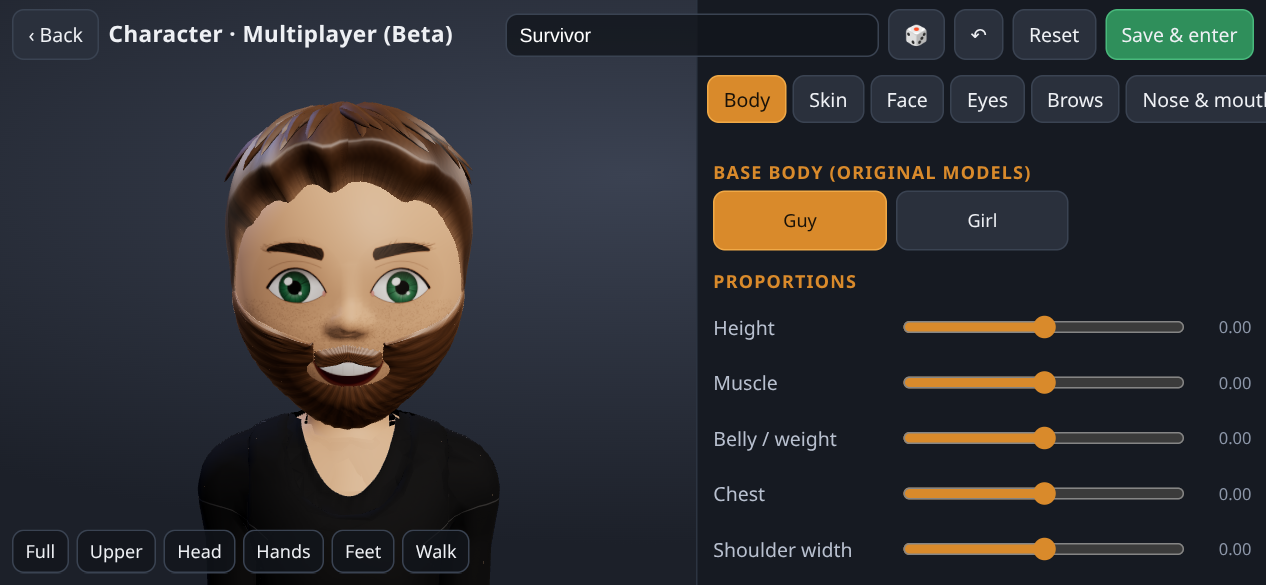
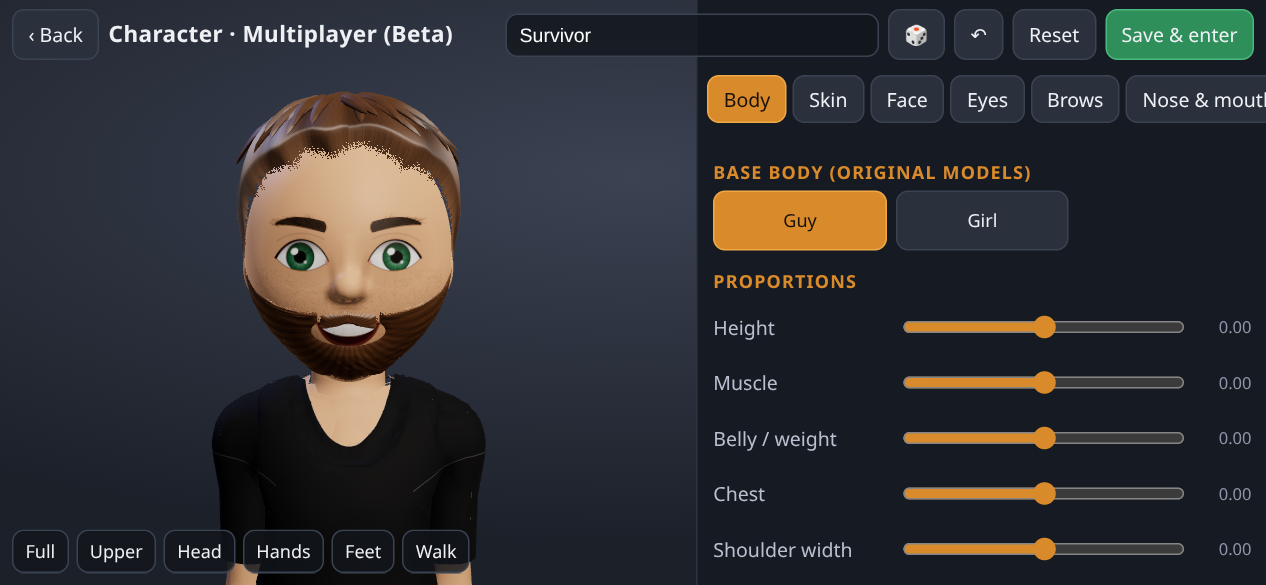
re-rendered creator spin, motion; PROGRESS fix pass 2; tool PORT fix

Changed region(s): [[0.154, 0.1538, 0.4005, 1.0], [0.154, 0.9538, 0.2156, 1.0], [0.154, 0.8, 0.1848, 0.9231]]

diff --git a/docs/mp-chars-v2/PROGRESS.md b/docs/mp-chars-v2/PROGRESS.md
@@ -54,3 +54,22 @@ Goal: Bitmoji-style original guy + girl (refs: /workspace/keem-vids/ref_guy.jpg,
 - Girl's jacket collar edge is smoother but still slightly wavy up close; a faint tone step where the head neck meets the body neck.
 - Wide-brim hats (bucket/sun/western) have thin, slightly see-through brims; hard hat shows a stray thin red strip.
 - Fingers are separated but sit close together and are fairly straight (no knuckle detail).
+
+## Fix pass 2 (Nov 19 2026, ~06:30-06:50 EST)
+Done:
+- Guy full beard: thinner (T .0075 -> .0046), trimmed to the jaw (floor line follows the jawline, chin underside + neck stay skin), cheeks left clear (top line dropped ~1.3 cm), outer edges now fade by *surface distance to the cut* (new `aE` vertex attribute, 3 cm feather, stippled strand fade + skin blend) so the bottom edge tapers softly into the neck. Mustache uses a 7 mm feather.
+- Nose: guy nose 1.22x with a slightly longer tip; painted bridge-side shadows, nostril shadows, under-tip shadow and tip highlight (reads in flat frontal light).
+- Scalp hairline: same distance-to-edge feather (`aE`, 2 cm) + 3 smoothing passes on the boundary; edge is a stippled fade, not a hard cut. (`aE` is zero-filled for parts without it, see headrig.js merge.)
+- Hats: bucket / sun / fedora / western brims are now closed drooping frustums with real thickness (`brim()` in acc.js), underside normals bent up so they do not render black; bucket hat raised off the eyes. Hard hat: full short solid brim, dome only (the floating red strip is gone).
+- Girl/guy neckline: inner (back) faces of the collar lip beside the neck no longer render (dark specks gone). Neck tube now uses a `plain` skin material lit exactly like the body skin (no extra self-light) -> the tone step where neck meets chest is much smaller.
+- Fingers: slightly stronger natural curl (curls .6/.5/.42/.34 pinky->index, curl .16), tris unchanged.
+- Tools: `PORT` env for tools/chars2/*.mjs (default 5262), `hatshots.sh`, extra camera views (hatfr/hatup/hatdn/neckL/neckF) in av.html.
+- Perf: guy 86,029 tris, girl 90,683 tris (unchanged).
+
+Honest flaws left:
+- Beard is still one opaque, strand-shaded shell with a feathered edge; it reads cartoon-thick on the jaw sides and has a straight vertical cut at the mouth corners.
+- Hairline feather is a stippled dither (a little grainy up close, especially on the girl's dark hair where the skin blend reads slightly orange).
+- Small pointed shell tips remain at the top of the collar on both sides of the neck (the base body mesh has jagged triangles there); girl's cropped-jacket collar edge is still slightly wavy.
+- A faint tone/shading step remains where the neck meets the chest (blotchy flat shading from the base body normals), much weaker than before but visible on the girl up close.
+- Brim undersides are lit flat/pale rather than shaded; baseball-cap bills and the sun visor are still thin partial shells.
+- Fingers are only slightly curled (bind-pose rotation, no knuckle detail).
